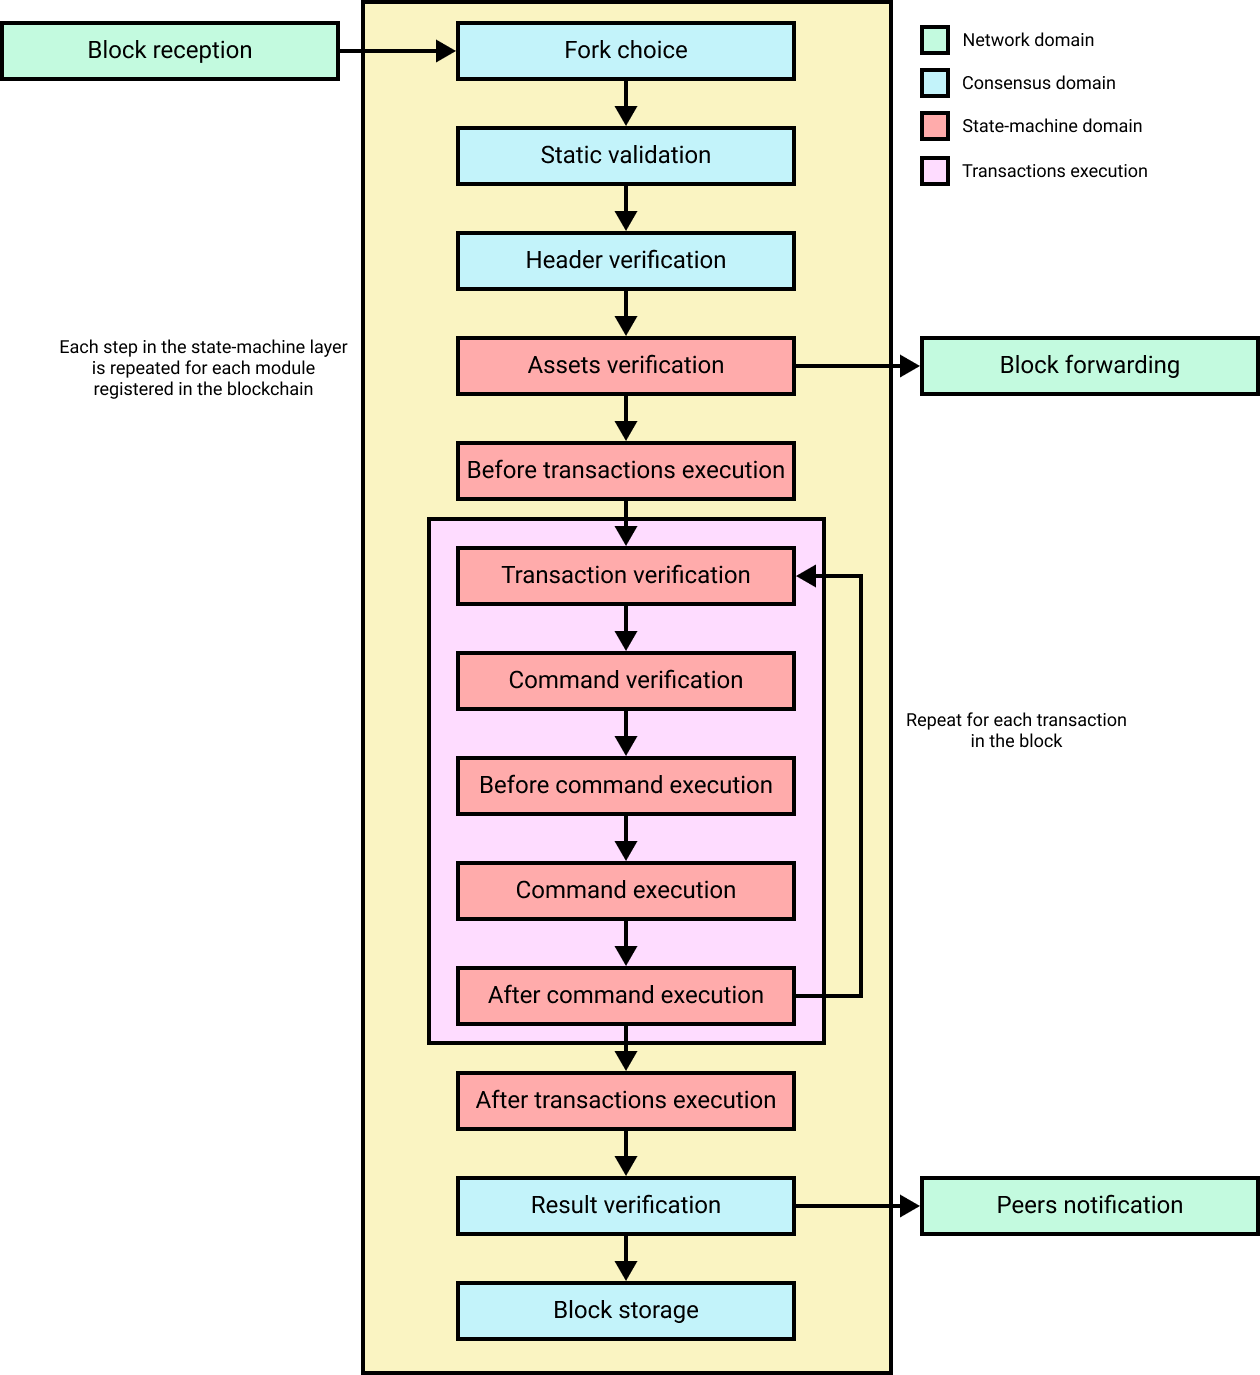
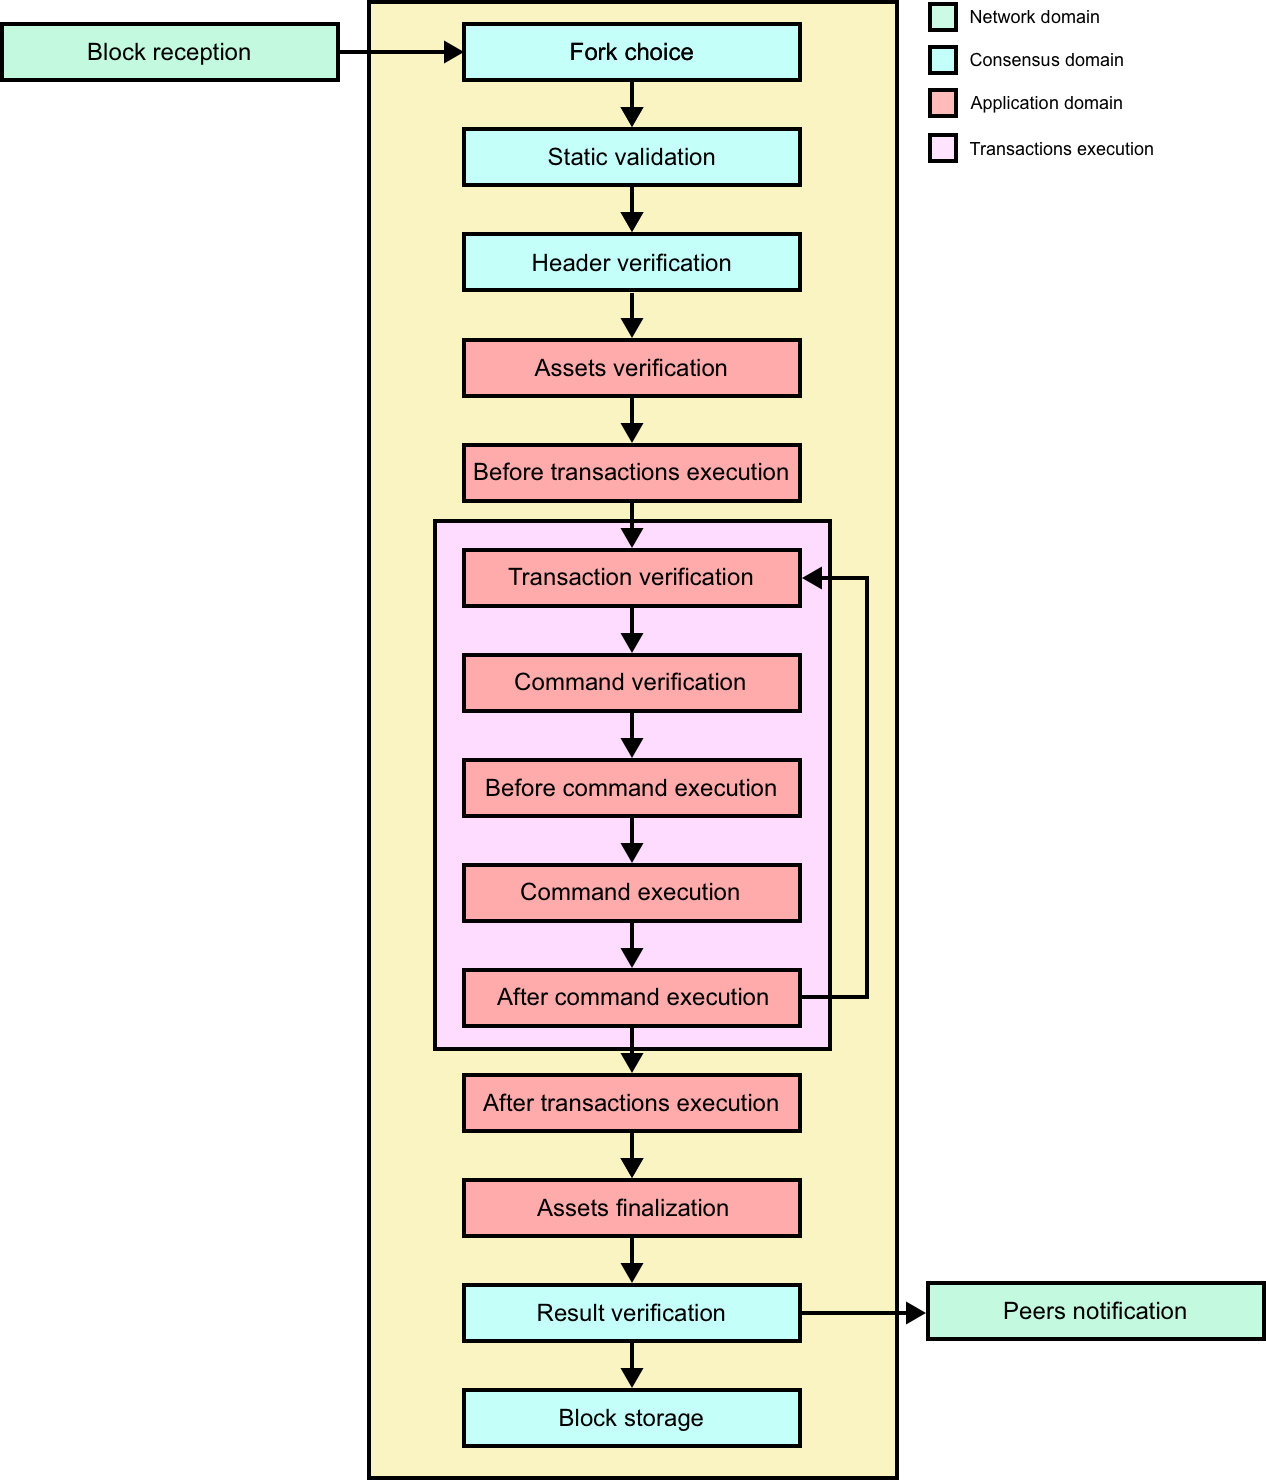
rename state-machine to application

Changed region(s): [[0.0, 0.0, 1.0, 1.0]]

diff --git a/proposals/lip-0055.md b/proposals/lip-0055.md
@@ -109,15 +109,15 @@ Furthermore, in the following we indicate with `block` be the block under consid
 
 <img src="lip-0055/stages.png" width="70%">
 
-*Figure 1: A schematic depiction of the various stages of a block processing. The stages performed in the consensus domain are indicated by blue boxes, while the stages performed in the state-machine domain are indicated by red boxes. Within the state-machine domain, the transactions processing is indicated by purple boxes. The network domain is indicated by green boxes.*
+*Figure 1: A schematic depiction of the various stages of a block processing. The stages performed in the consensus domain are indicated by blue boxes, while the stages performed in the application domain are indicated by red boxes. Within the application domain, the transactions processing is indicated by purple boxes. The network domain is indicated by green boxes.*
 
 In this section, we describe the various processing stages of a block. Note that a genesis block follows different rules specified in [LIP 0060][lip-0060].
 
-The block processing is split between the network, consensus, and state-machine domains (see figure 1):
+The block processing is split between the network, consensus, and application domains (see figure 1):
 
 - The network domain is responsible for exchanging blocks with other peers in the [P2P network][lip-0004].
 - The consensus domain applies the [fork choice rule][lip-0014#fork-choice-rule] and checks the properties contained in the block header.
-- The state-machine checks and applies the module-level logic. All the stages that are part of the state-machine domain (except "command verification" and "command execution") are repeated for each module registered in the chain. The "command verification" and "command execution" stages are called only for the module to which the command belongs (i.e. with module ID matching the `moduleID` property). The transactions processing is performed on the transactions contained in the block as part of the state-machine processing. The four stages in the transactions processing are repeated for each transaction.
+- The application domain checks and applies the module-level logic. All the stages that are part of the application domain (except "command verification" and "command execution") are repeated for each module registered in the chain. The "command verification" and "command execution" stages are called only for the module to which the command belongs (i.e. with module ID matching the `moduleID` property). The transactions processing is performed on the transactions contained in the block as part of the application domain processing. The four stages in the transactions processing are repeated for each transaction.
 
 The full processing of a block is organized as follows.
 
@@ -143,11 +143,12 @@ The full processing of a block is organized as follows.
 
 <img src="lip-0055/generation_stages.png" width="70%">
 
-*Figure 2: A schematic depiction of the various stages of a block generation. The stages performed in the generator domain are indicated by grey boxes, while the stages performed in the state-machine domain are indicated by red boxes. Within the state-machine domain, the transactions processing is indicated by purple boxes. The network domain is indicated by green boxes.*
+*Figure 2: A schematic depiction of the various stages of a block generation. The stages performed in the generator domain are indicated by grey boxes, while the stages performed in the application domain are indicated by red boxes. Within the application domain, the transactions processing is indicated by purple boxes. The network domain is indicated by green boxes.*
 
 In this section, we describe the various stages of a block generation.
 
-The block generation is split between the network, generator, and state-machine domains (see figure 2), where the generator domain is responsible for setting block header properties as well as inserting entries in the block assets.
+The block generation is split between the network, generator, and application domains (see figure 2).
+The generator domain is responsible for setting block header properties as well as inserting entries in the block assets.
 
 The full generation of a block is organized as follows.
 
